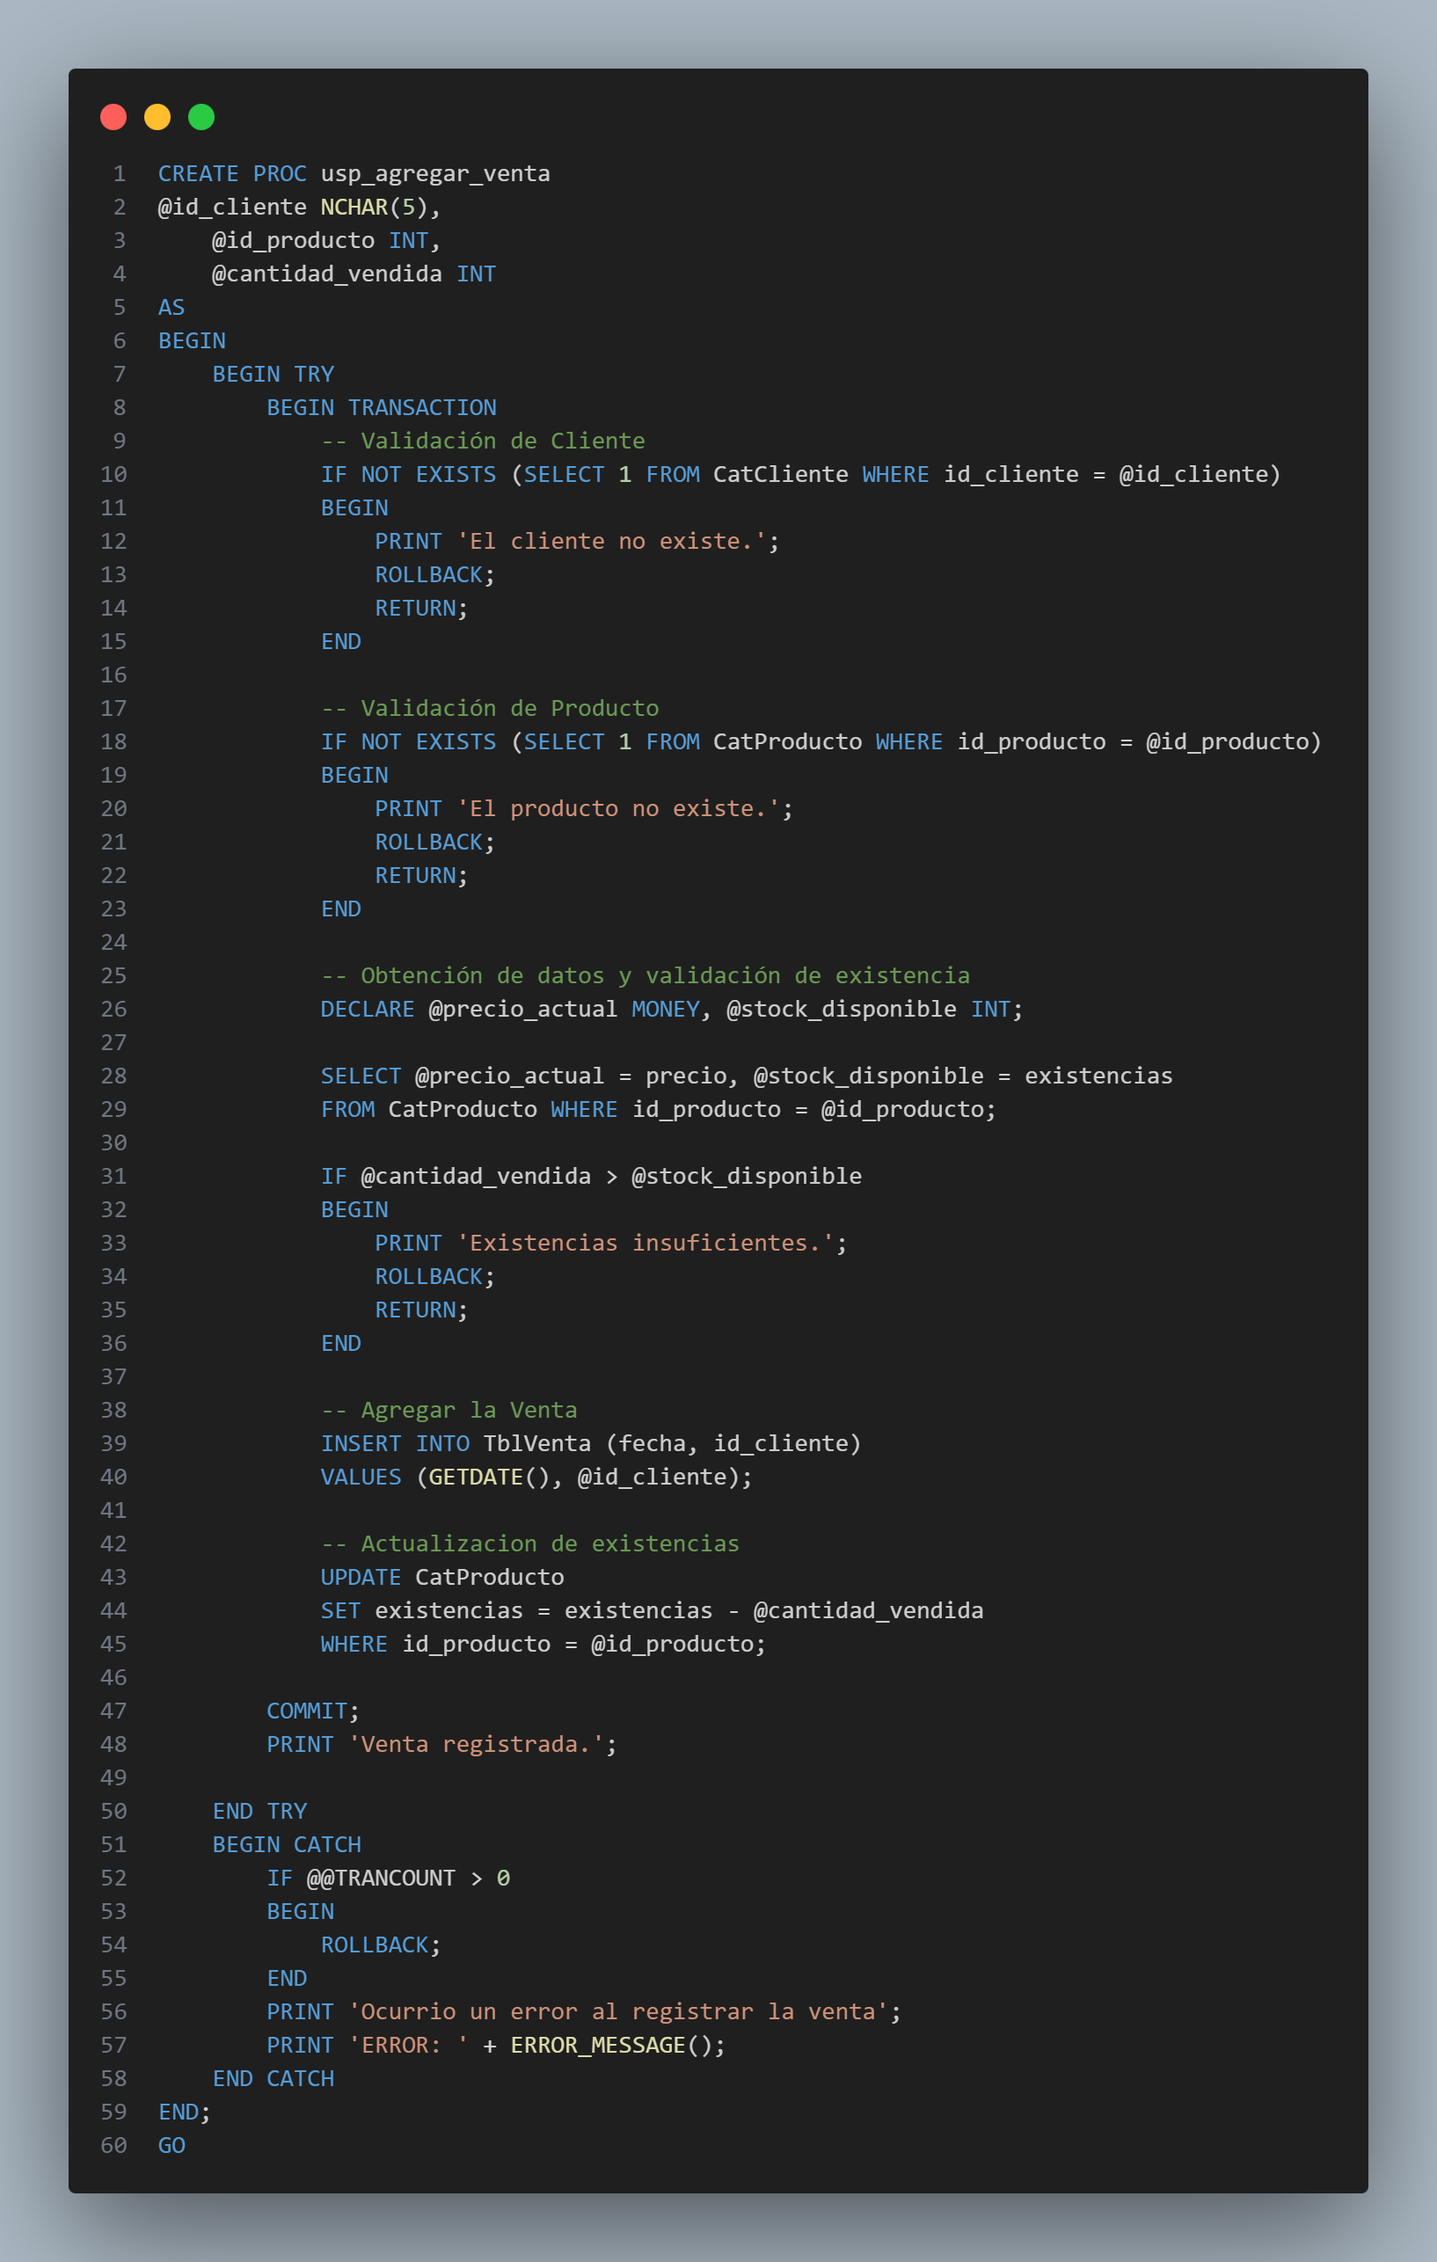
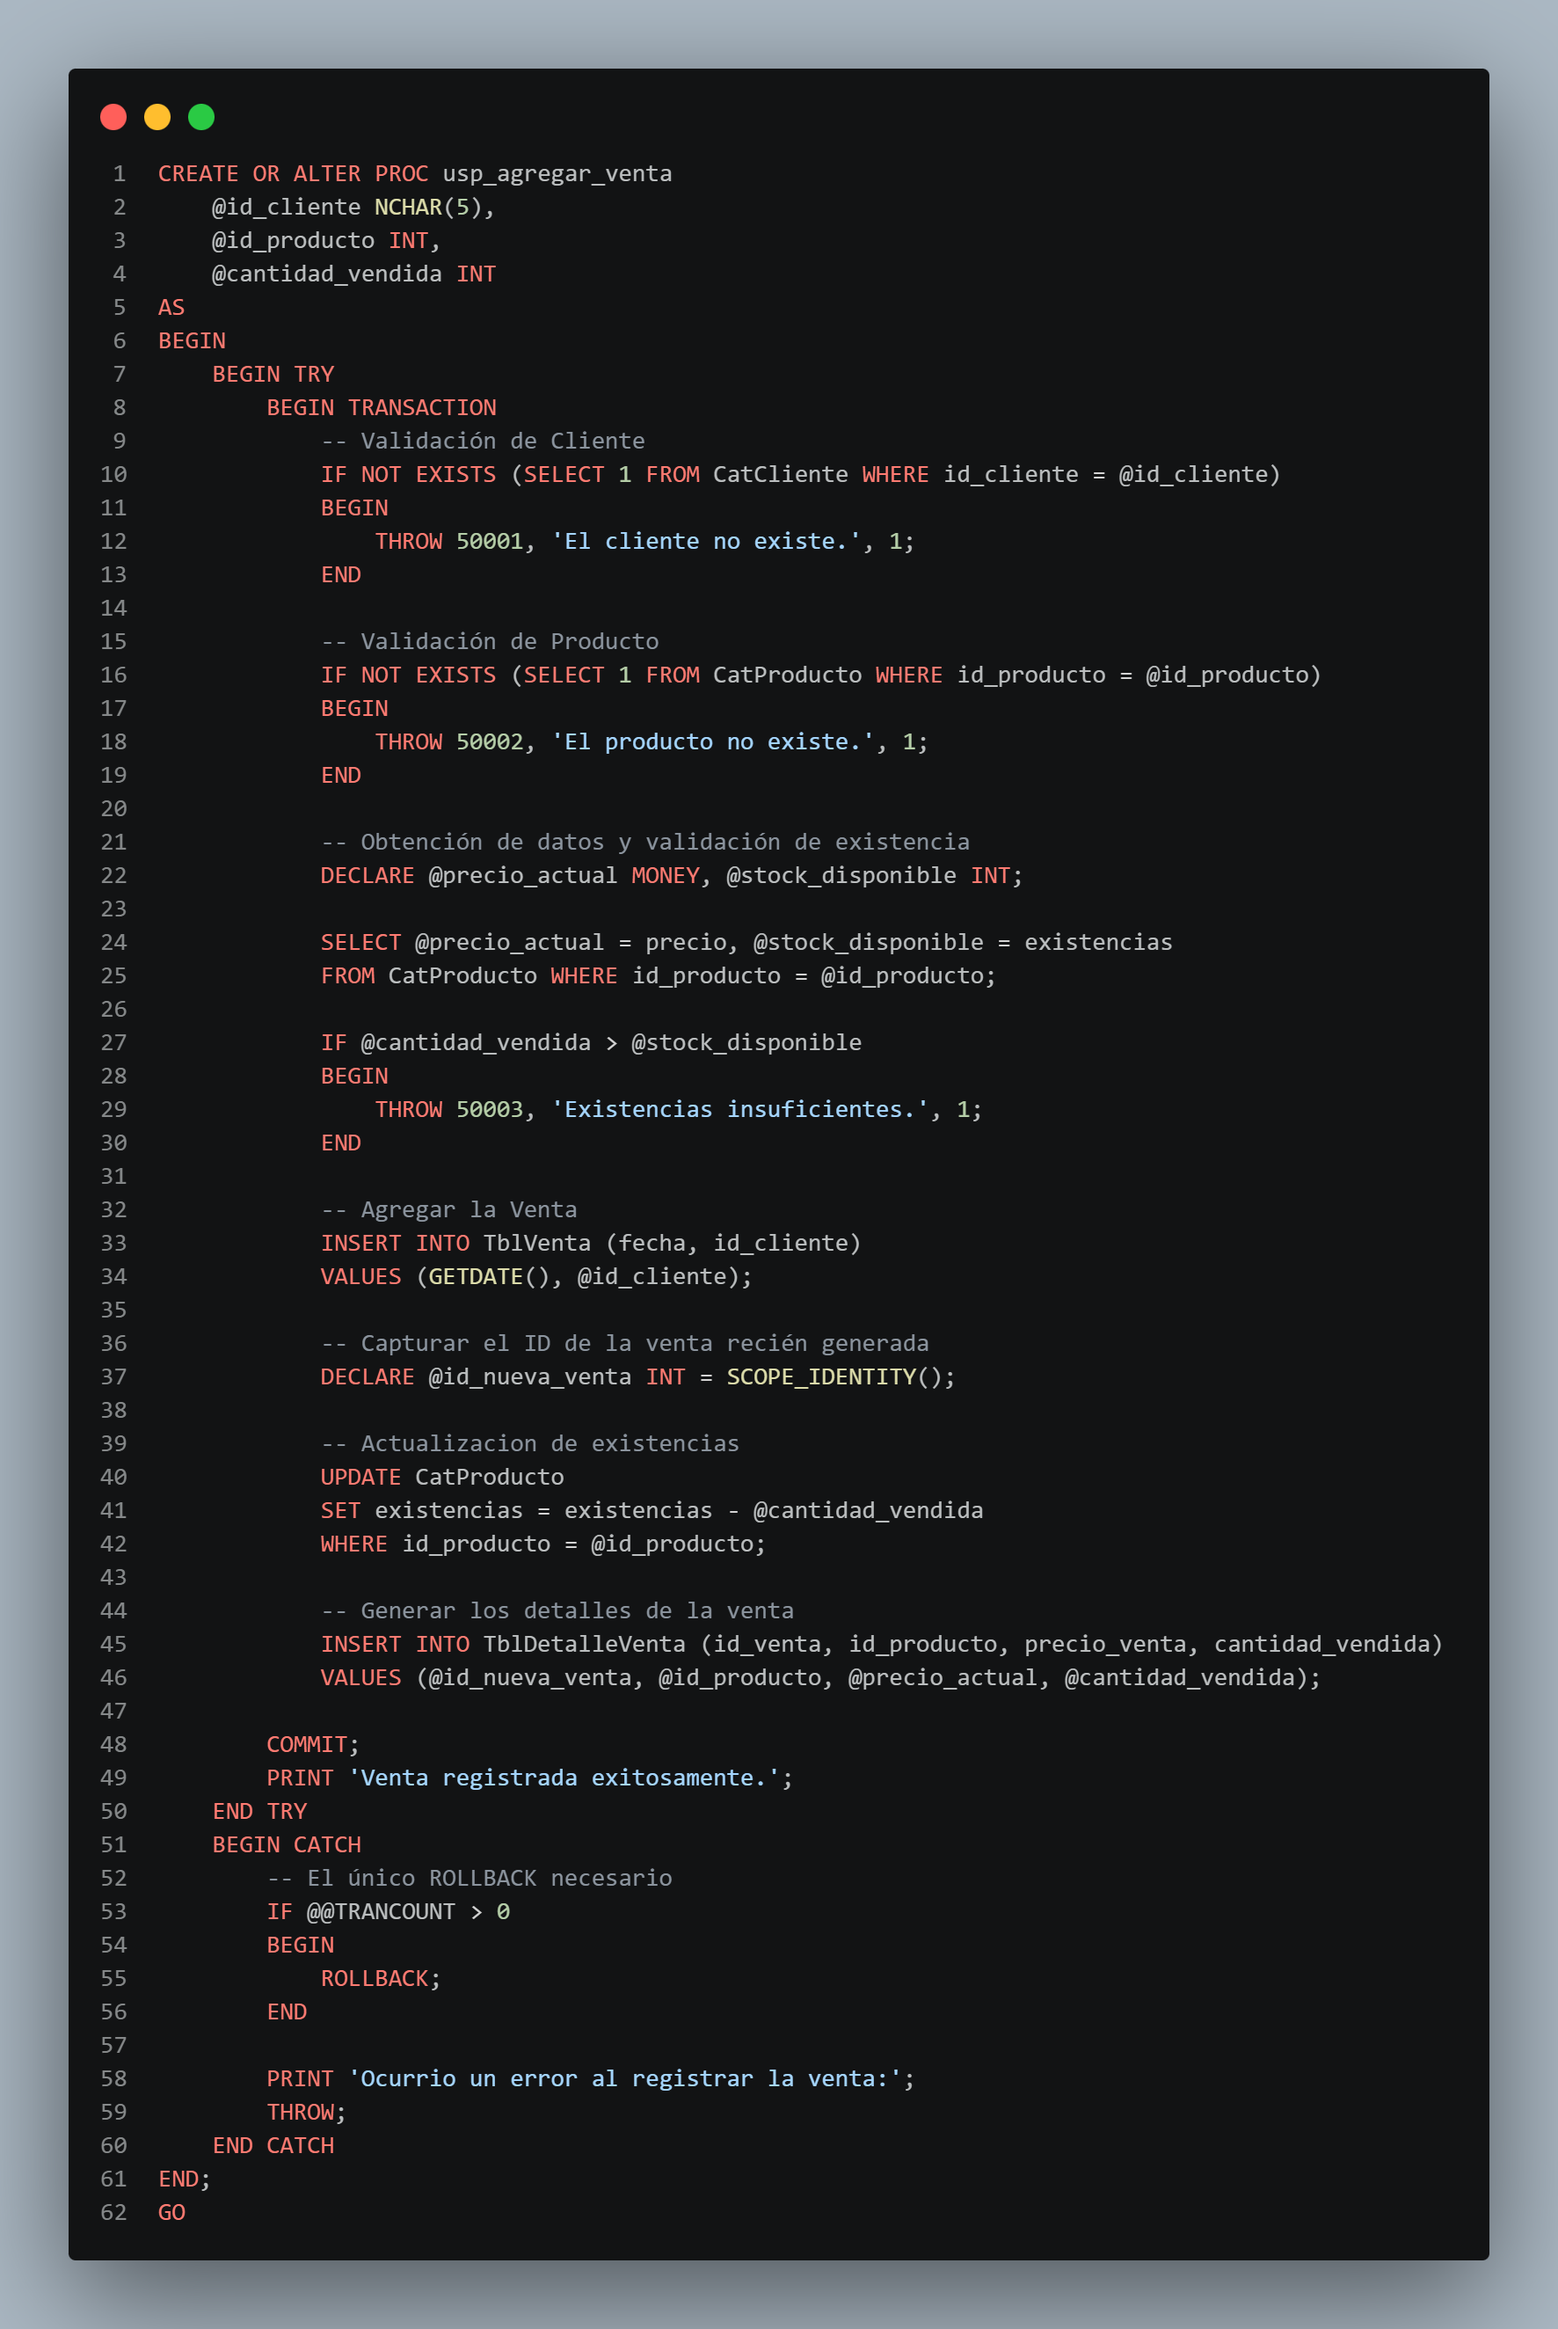
Practica venta con Store Procedure

diff --git a/02-Manipulacionavanzada/practicas/01-practica-sp.md b/02-Manipulacionavanzada/practicas/01-practica-sp.md
@@ -36,7 +36,7 @@ Armamos el procedure usando transacciones y un bloque `TRY...CATCH`. Si algo fal
 **Así funciona la lógica paso a paso:**
 1. **Inicio de Transacción:** Abrimos la transacción para proteger los datos.
 2. **Fecha de la Venta:** Usamos `GETDATE()` para registrar la hora exacta al insertar en `TblVenta`.
-3. **Validar Cliente:** Revisamos si el cliente existe. Si no, abortamos la operación.
+3. **Validar Cliente:** Revisamos si el cliente existe. Si no, abortamos la operacion con throw.
 4. **Validar Producto y Stock:** Checamos que el producto exista y que la `cantidad_vendida` no sea mayor a la `existencia` actual.
 5. **Guardar Detalle:** Si todo está en orden, insertamos el registro en `TblDetalleVenta`.
 6. **Descontar Inventario:** Le restamos la cantidad vendida al stock de `CatProducto`.
@@ -50,15 +50,16 @@ Guardamos los cambios en el repositorio local con el nombre exacto de la prácti
 Comando ejecutado:
 `git commit -m "Practica venta con Store Procedure"`
 
-![Comando git commit](/img/Practica_Imgs/commit.png)
+![Comando git commit](/img/Practica_Imgs/git%20commit.png)
 
 ## 6. Control de Versiones: Merge a Main
 Pasamos todo el código de nuestra rama de trabajo hacia la rama principal (`main`). Primero cambiamos a main con `git checkout main` y luego fusionamos los cambios.
+![Comando git checkout](/img/Practica_Imgs/git%20checkout.png)
 
 Comando ejecutado:
 `git merge <practica-sp>`
 
-![Comando git merge](/img/Practica_Imgs/merge.png)
+![Comando git merge](/img/Practica_Imgs/git%20merge.png)
 
 ## 7. Control de Versiones: Push a GitHub
 Subimos la versión final al repositorio remoto para respaldar el proyecto.
@@ -66,4 +67,4 @@ Subimos la versión final al repositorio remoto para respaldar el proyecto.
 Comando ejecutado:
 `git push origin main`
 
-![Comando git push](/img/Practica_Imgs/push.png)
+![Comando git push](/img/Practica_Imgs/git%20push.png)
